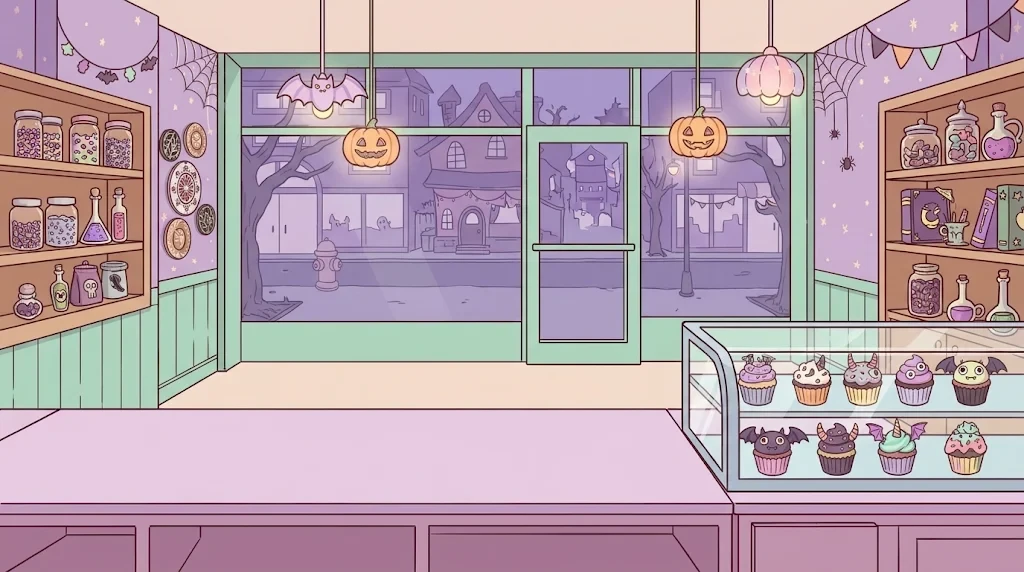
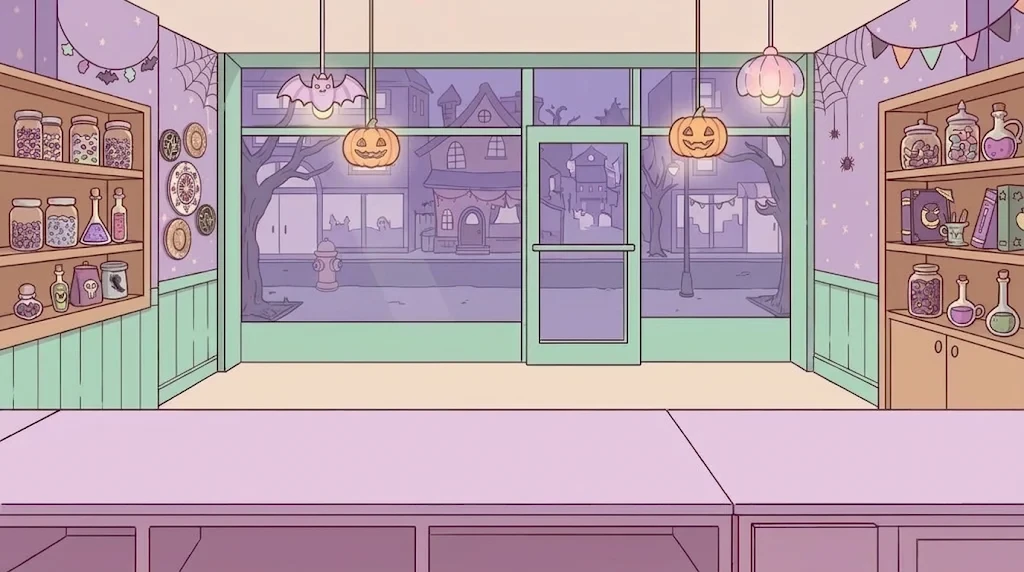
Swap shop background for the version without the display case

diff --git a/CLAUDE.md b/CLAUDE.md
@@ -15,7 +15,7 @@ Bu dosya projenin ortak hafızasıdır (ekip + Claude). Önemli kararlar buraya 
 - **Teslim:** `npm run build` → `dist/BooCake.html` **tek dosya**, çift tıklayınca açılır (asset'ler base64 olarak kodun içinde; `tools/make-single.mjs` JS/CSS'i HTML'e gömer). `file://` ile doğrulandı.
 - Geliştirme: `npm install`, `npm run dev` → http://localhost:5173. Kontrol: `npm run typecheck`.
 - Arayüz dili Türkçe; tüm metinler `src/text.ts`'te (çeviri için sadece orası değişir). Yazı tipi Fredoka (latin + latin-ext).
-- **Sanat yönetimi (art direction):** Tüm görseller vektör olarak kodla çizilir (parçacık dokuları ve sesler hariç). Kurallar: sıcak kahve-bordo kontur (`INK` = 0x4a2a2e, 2–3 px), ışık sol üstten (parlama sol üstte, gölge sağ altta), pastel düz renkler; duvar mor, ahşap sıcak kahve, kumaşlar mor + altın şerit. Ortak ikon/buton/panel çizimleri `src/ui/icons.ts`, `button.ts`, `panel.ts`. Ortam `src/objects/Shop.ts` (katmanlar: ekibin verdiği arka plan resmi `src/assets/bg/shop.webp` (duvar, vitrin camı, raflar, vitrin dolabı) → tezgâh → çalışma tezgâhı → vinyet). Resim ekran genişliğine ölçeklenir; içindeki tezgâh kenarı (`BG_COUNTER_Y` = 410, resmin kendi pikseli) oyunun tezgâhına (`LAYOUT.counterTop` = 410) hizalanır. Resim değişirse bu iki sayı ayarlanır. Eski kodla çizilen duvar/pencere/saat/raf kaldırıldı (`Shop.update` artık boş). Resim 1024x572; daha büyük bir sürümü gelirse aynı adla değiştirilir.
+- **Sanat yönetimi (art direction):** Tüm görseller vektör olarak kodla çizilir (parçacık dokuları ve sesler hariç). Kurallar: sıcak kahve-bordo kontur (`INK` = 0x4a2a2e, 2–3 px), ışık sol üstten (parlama sol üstte, gölge sağ altta), pastel düz renkler; duvar mor, ahşap sıcak kahve, kumaşlar mor + altın şerit. Ortak ikon/buton/panel çizimleri `src/ui/icons.ts`, `button.ts`, `panel.ts`. Ortam `src/objects/Shop.ts` (katmanlar: ekibin verdiği arka plan resmi `src/assets/bg/shop.webp` (duvar, vitrin camı, raflar) → tezgâh → çalışma tezgâhı → vinyet). Resim ekran genişliğine ölçeklenir; içindeki tezgâh kenarı (`BG_COUNTER_Y` = 410, resmin kendi pikseli) oyunun tezgâhına (`LAYOUT.counterTop` = 410) hizalanır. Resim değişirse bu iki sayı ayarlanır. Eski kodla çizilen duvar/pencere/saat/raf kaldırıldı (`Shop.update` artık boş). Resim 1024x572; daha büyük bir sürümü gelirse aynı adla değiştirilir.
 - **Soft stil (ekip kararı, "Good Pizza, Great Pizza" gibi yumuşak/sıcak his; görselleri kopyalanmadı):** `src/softStyle.ts` Phaser'ın renk ayarlayıcılarını (Graphics fill/line/gradient, Shape, Text) bir kez yamalar; her renk doygunluğu düşürülmüş, koyuları açılmış, biraz krem karışmış ve soğuk mor/maviler sıcak mürdüme kaydırılmış olarak çizilir. Çizim kodunda renkleri tek tek değiştirmeye gerek yok; ayar sabitleri dosyanın başında (`STRENGTH` 0 = eski görünüm). Üstte şeffaf bir HTML kâğıt dokusu katmanı var (tıklamalar geçer). Kaldırmak için `main.ts`'teki `installSoftStyle()` / `addPaperGrain()` çağrılarını sil.
 - **Netlik (HiDPI):** `config.RES = 2`: tuval 2560x1440, her sahnenin kamerası 2 kat yakınlaştırır (`fx.setupCamera`, `fadeIn` içinde çağrılır), tüm metinler 2 kat çözünürlükte (`main.ts`'teki fabrika yaması). Dünya koordinatları hâlâ 1280x720. Performans: fırın, sipariş fişi ve para çubuğu yalnızca değiştiğinde yeniden çizilir; gerçek ekran kartıyla ~58 fps.
 - Ortalamayı sadece Phaser yapar (`index.html`'de flex yok); 4:3 projektörde tıklamalar doğru yere gider.
